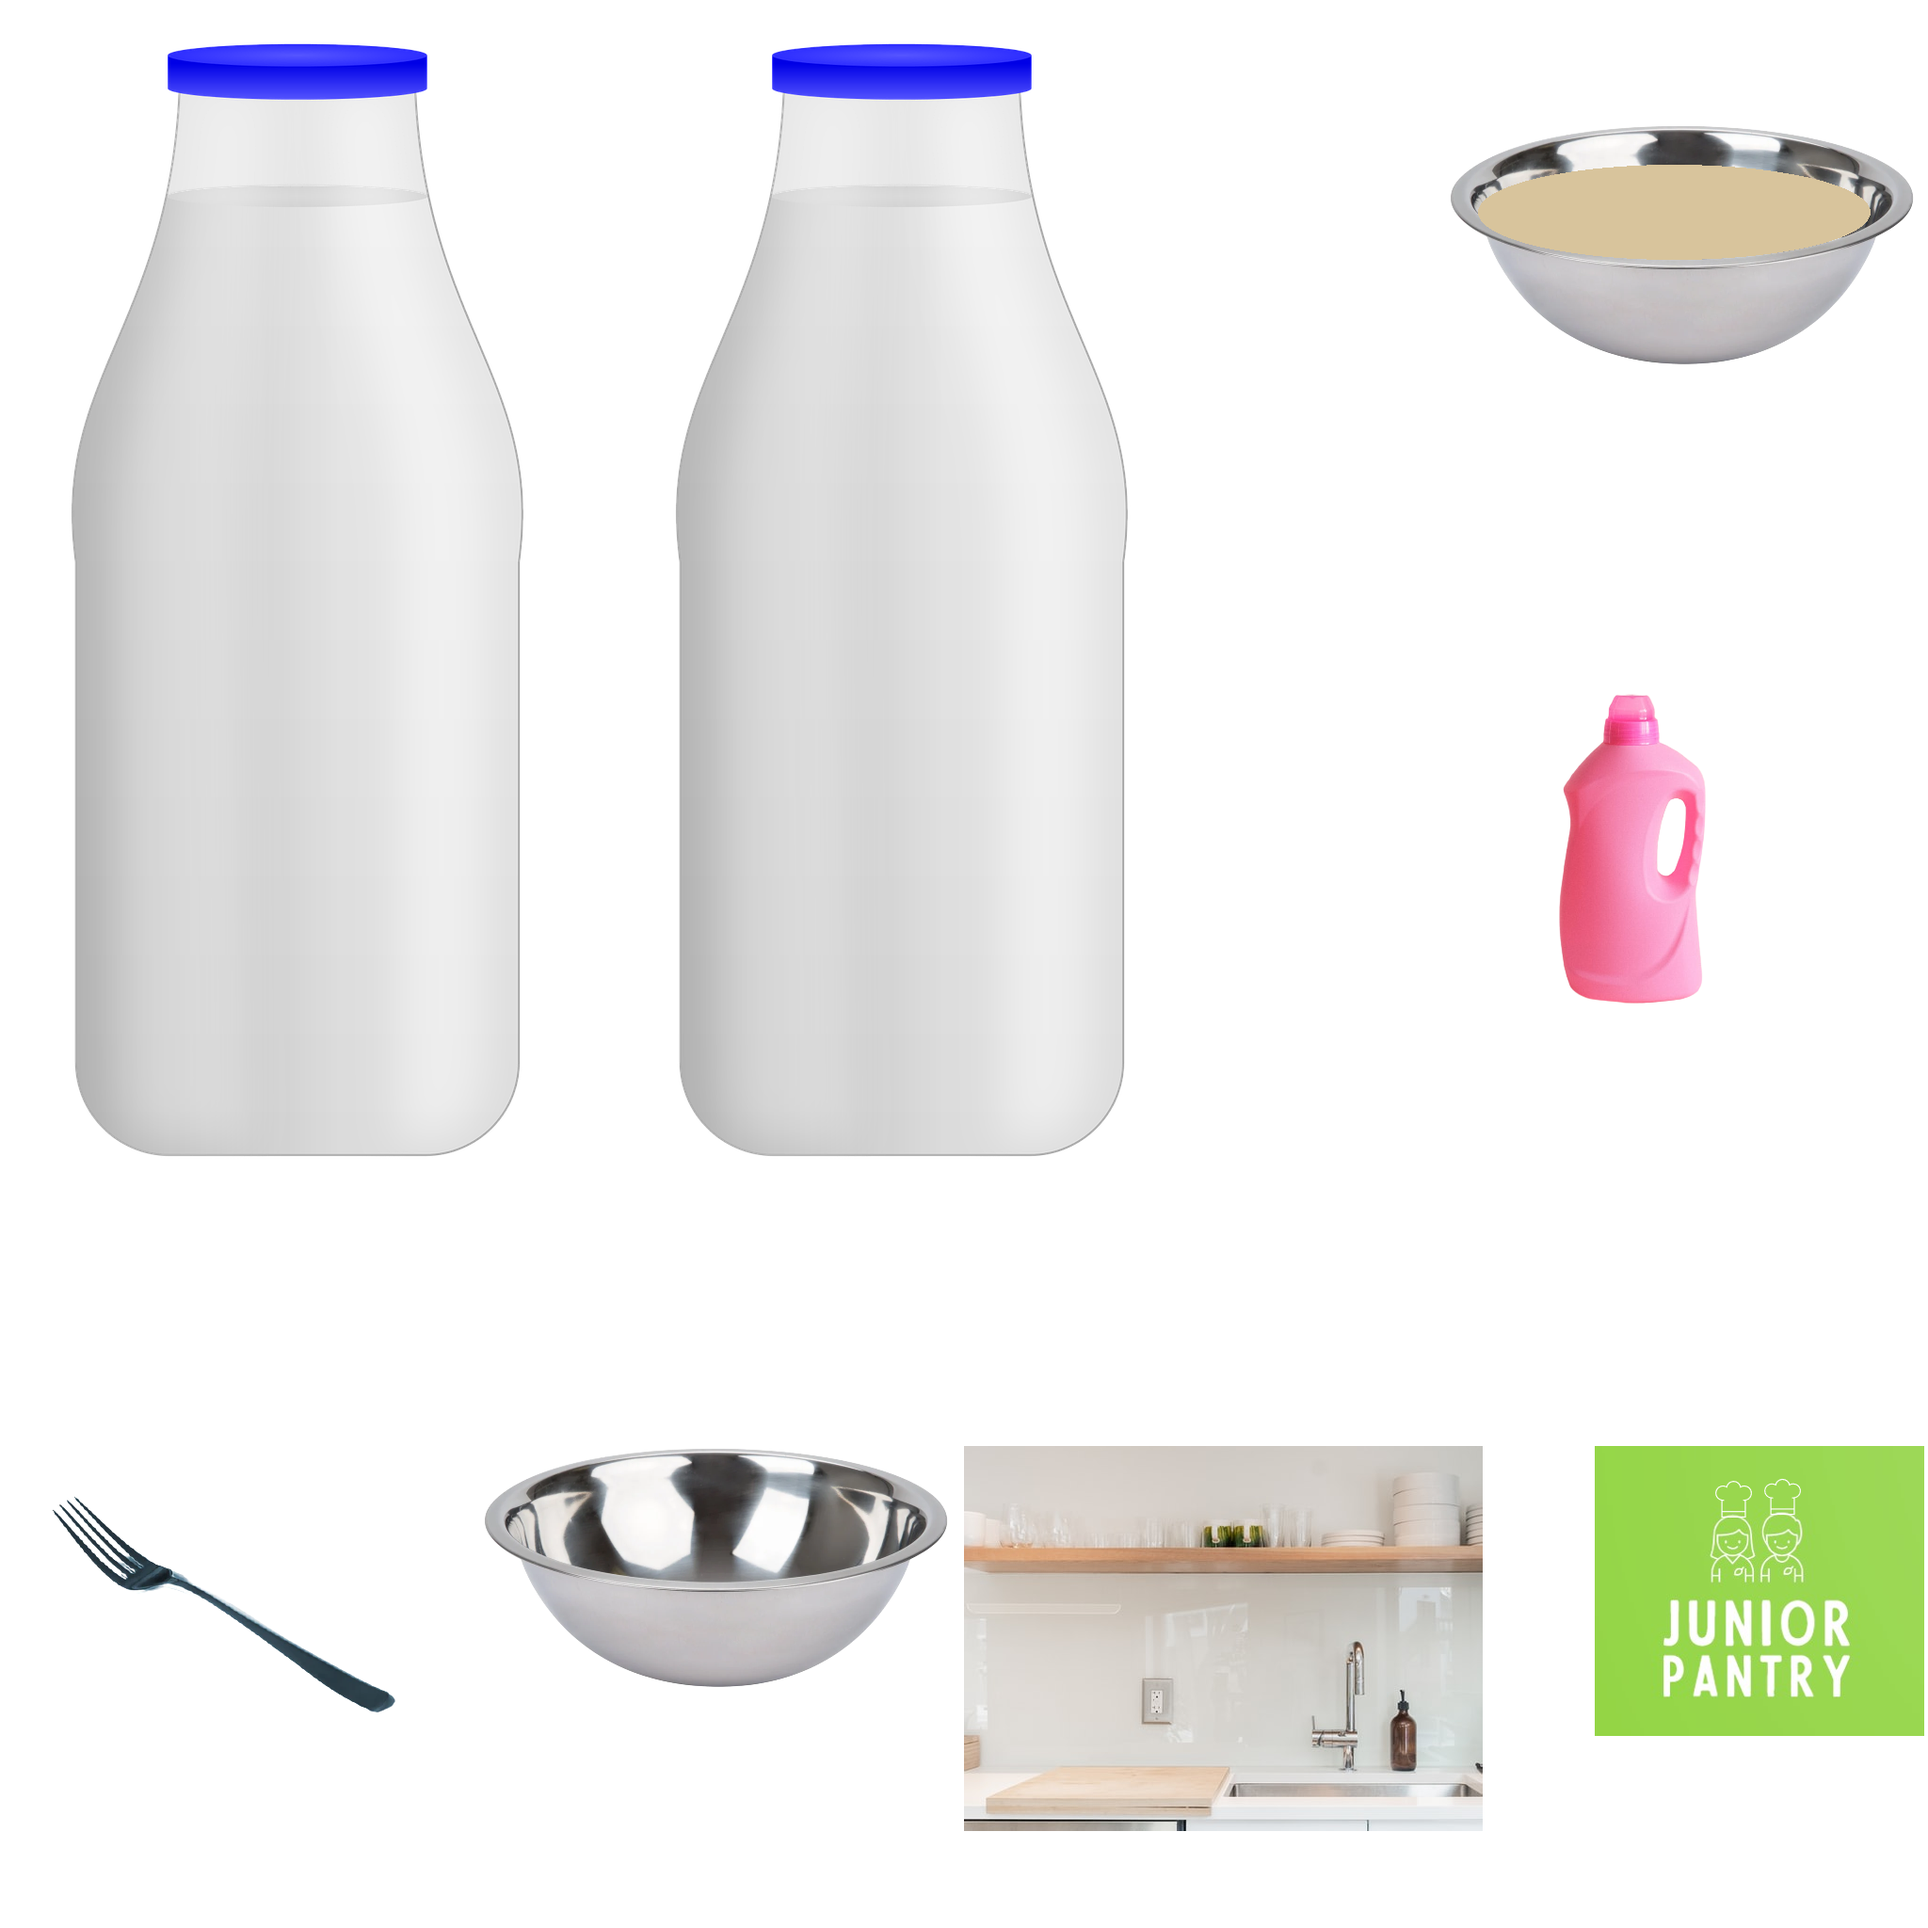
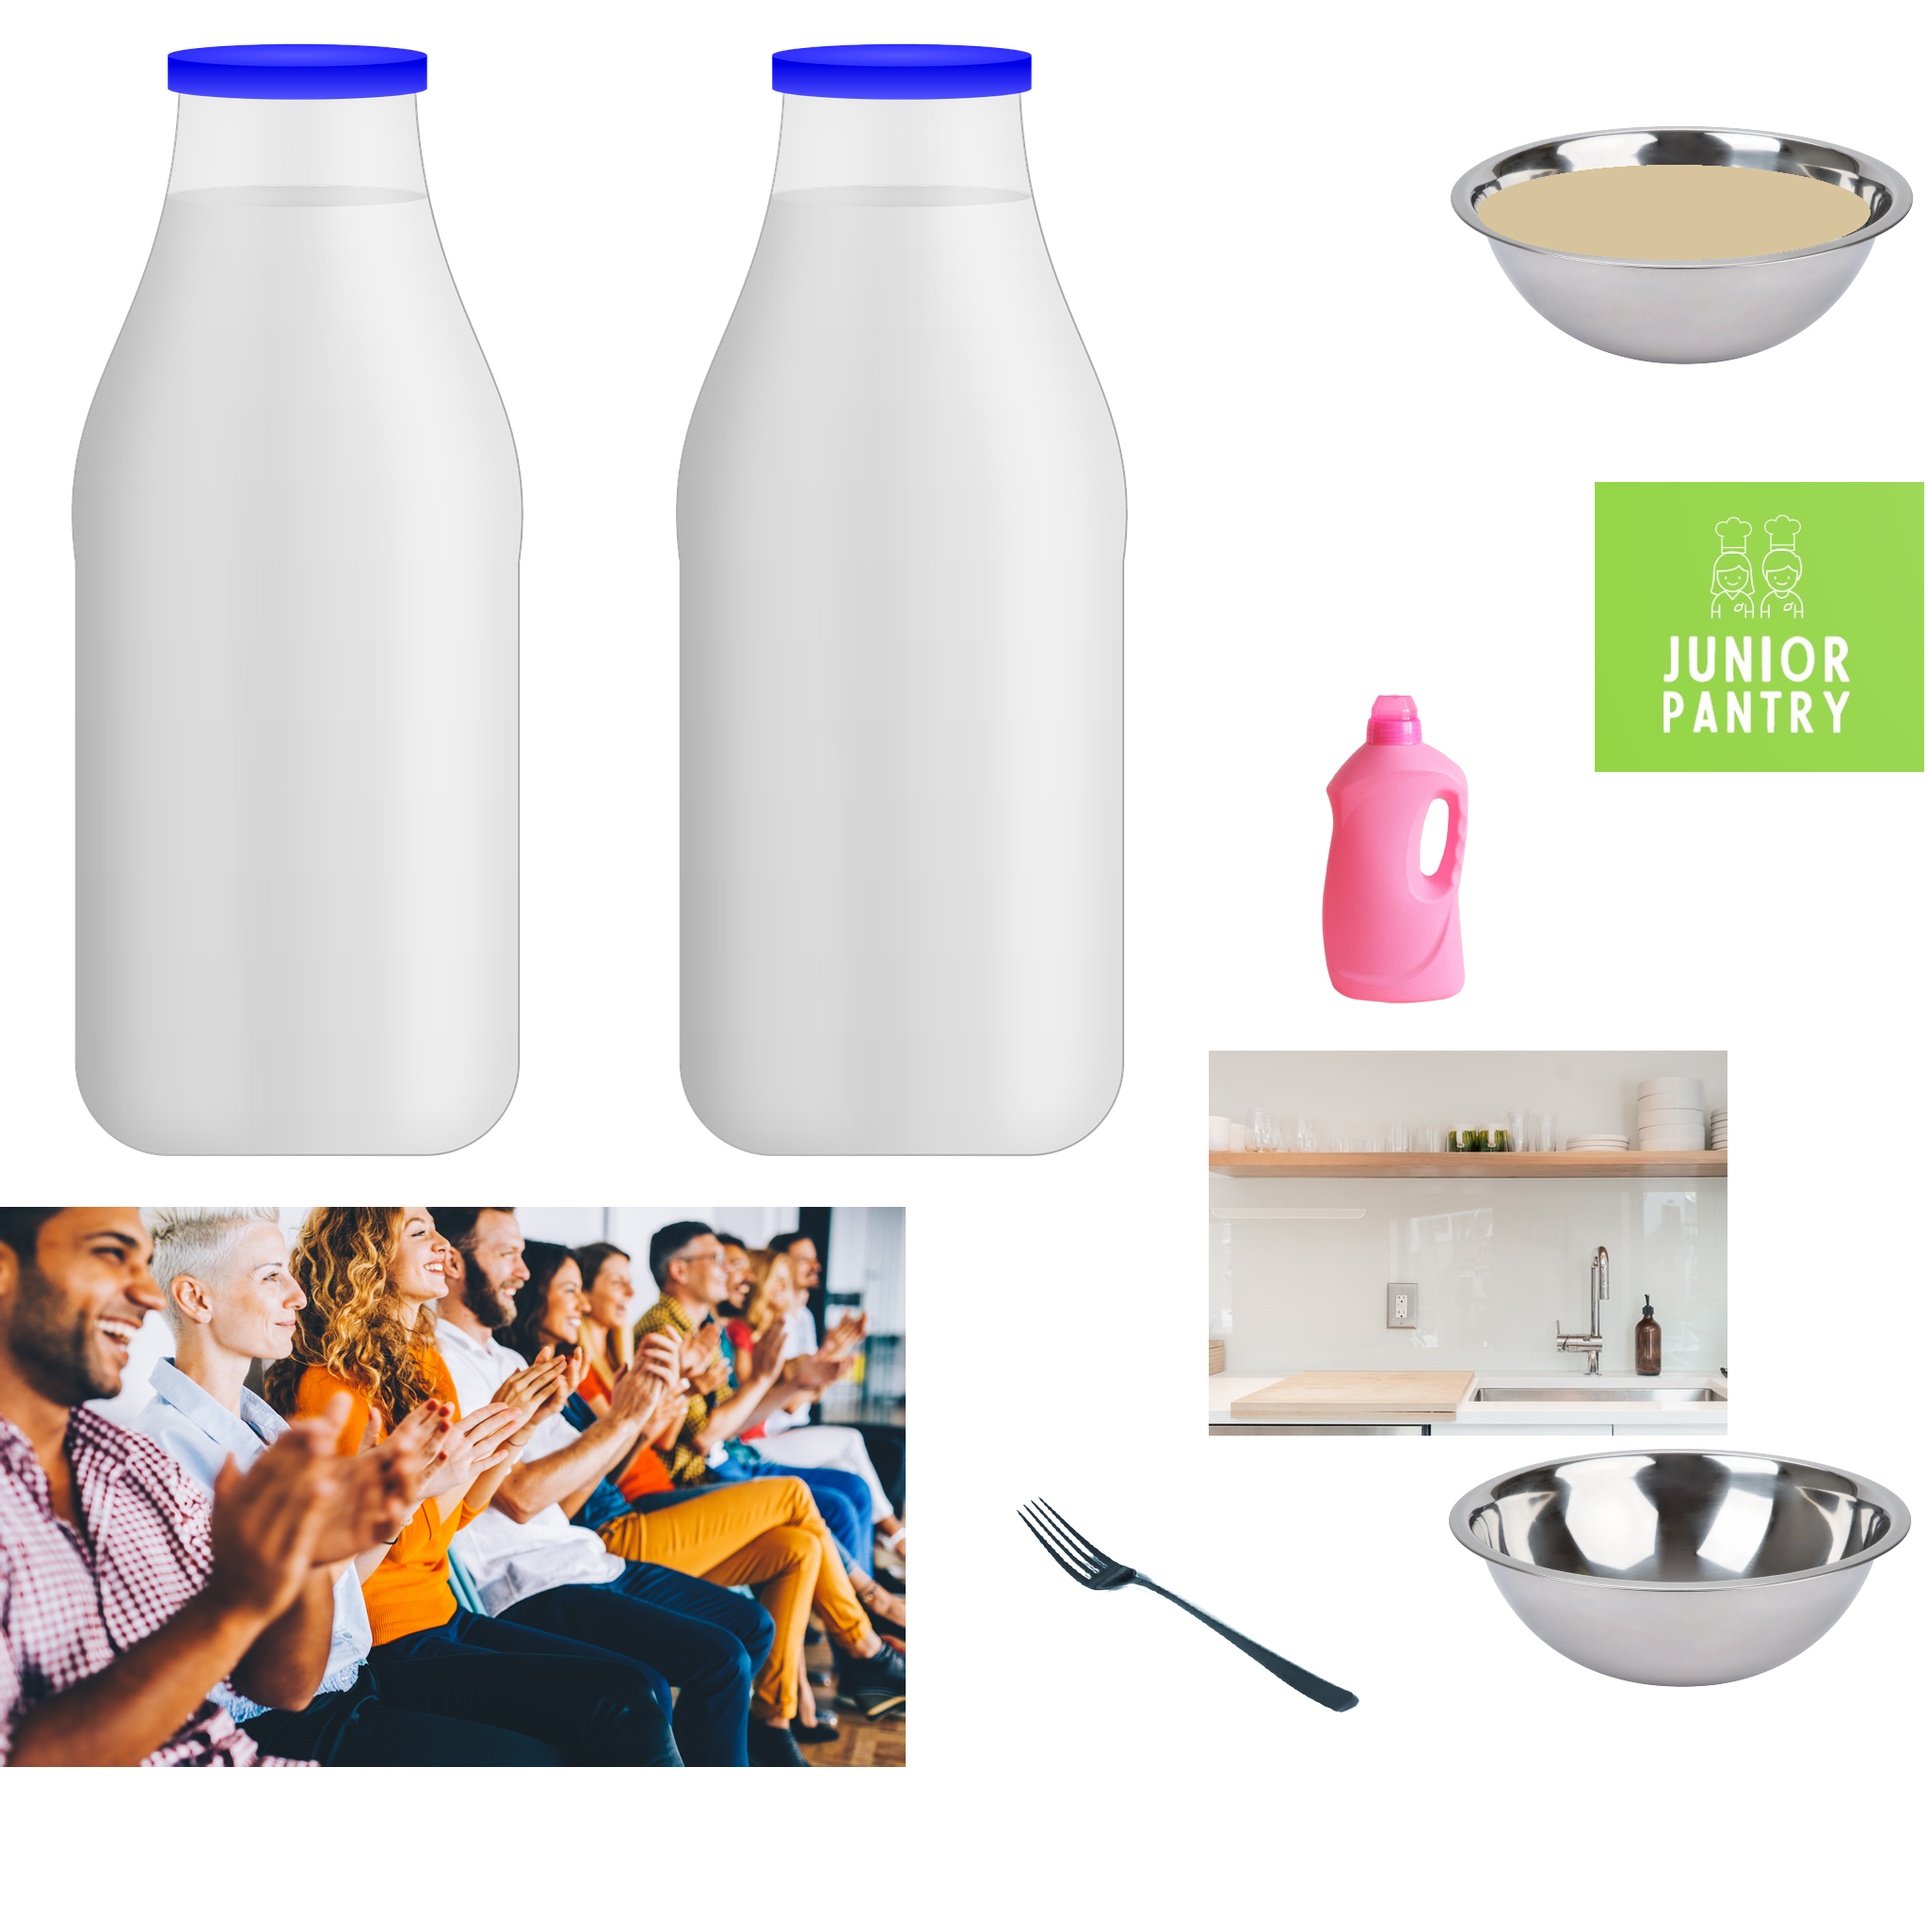
updates

diff --git a/scripts/c3runtime.js b/scripts/c3runtime.js
@@ -2768,7 +2768,9 @@ this._y)[getx?0:1];else return 0}}}};
 		C3.Plugins.Sprite.Acts.Destroy,
 		C3.Plugins.Sprite.Acts.SetVisible,
 		C3.Plugins.Sprite.Acts.SetTowardPosition,
-		C3.Plugins.Sprite.Cnds.CompareFrame
+		C3.Plugins.Sprite.Cnds.CompareFrame,
+		C3.Plugins.Sprite.Cnds.OnAnimFinished,
+		C3.Plugins.System.Acts.Wait
 		];
 	};
 	self.C3_JsPropNameTable = [
@@ -2796,7 +2798,11 @@ this._y)[getx?0:1];else return 0}}}};
 		{Tick: 0},
 		{Clicking: 0},
 		{Clock: 0},
-		{Soaking: 0}
+		{Soaking: 0},
+		{Cheering: 0},
+		{Congratulations: 0},
+		{Text: 0},
+		{Clean: 0}
 	];
 }
 
@@ -2909,7 +2915,10 @@ this._y)[getx?0:1];else return 0}}}};
 		() => 149,
 		() => 178,
 		() => 1,
-		() => "Animation1"
+		() => "Animation1",
+		() => "Animation 1",
+		() => 3,
+		() => "End Screen"
 	];
 }
 
